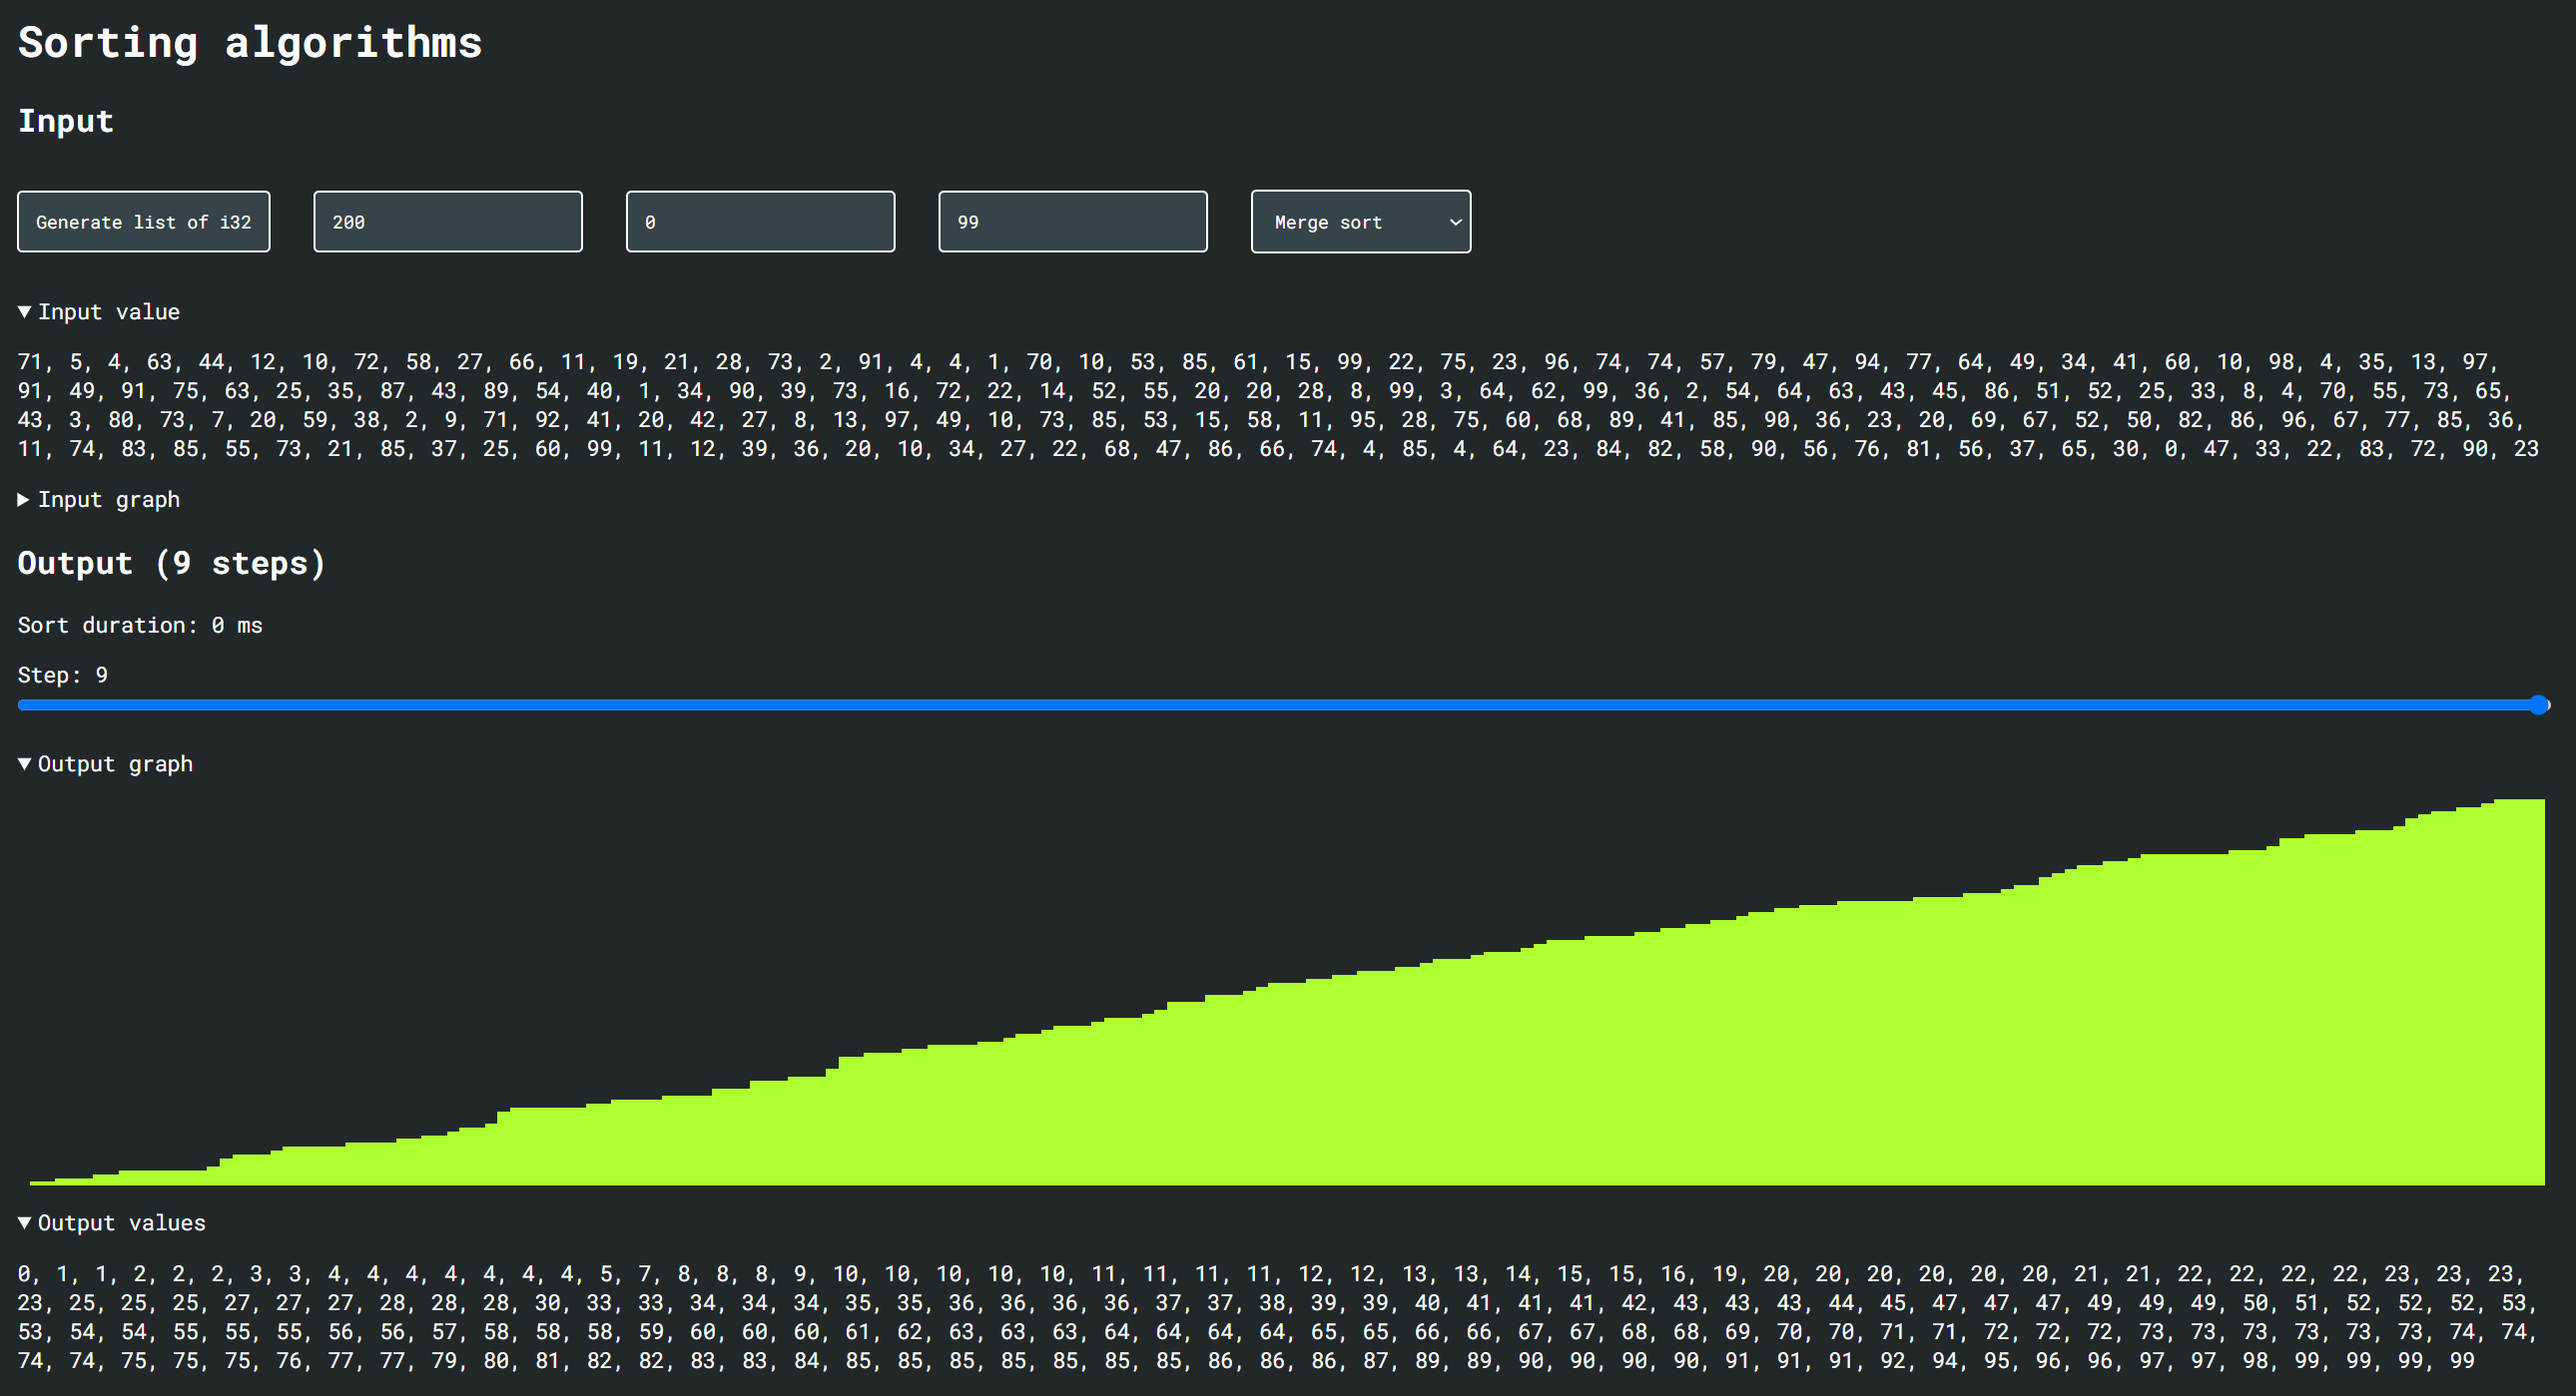
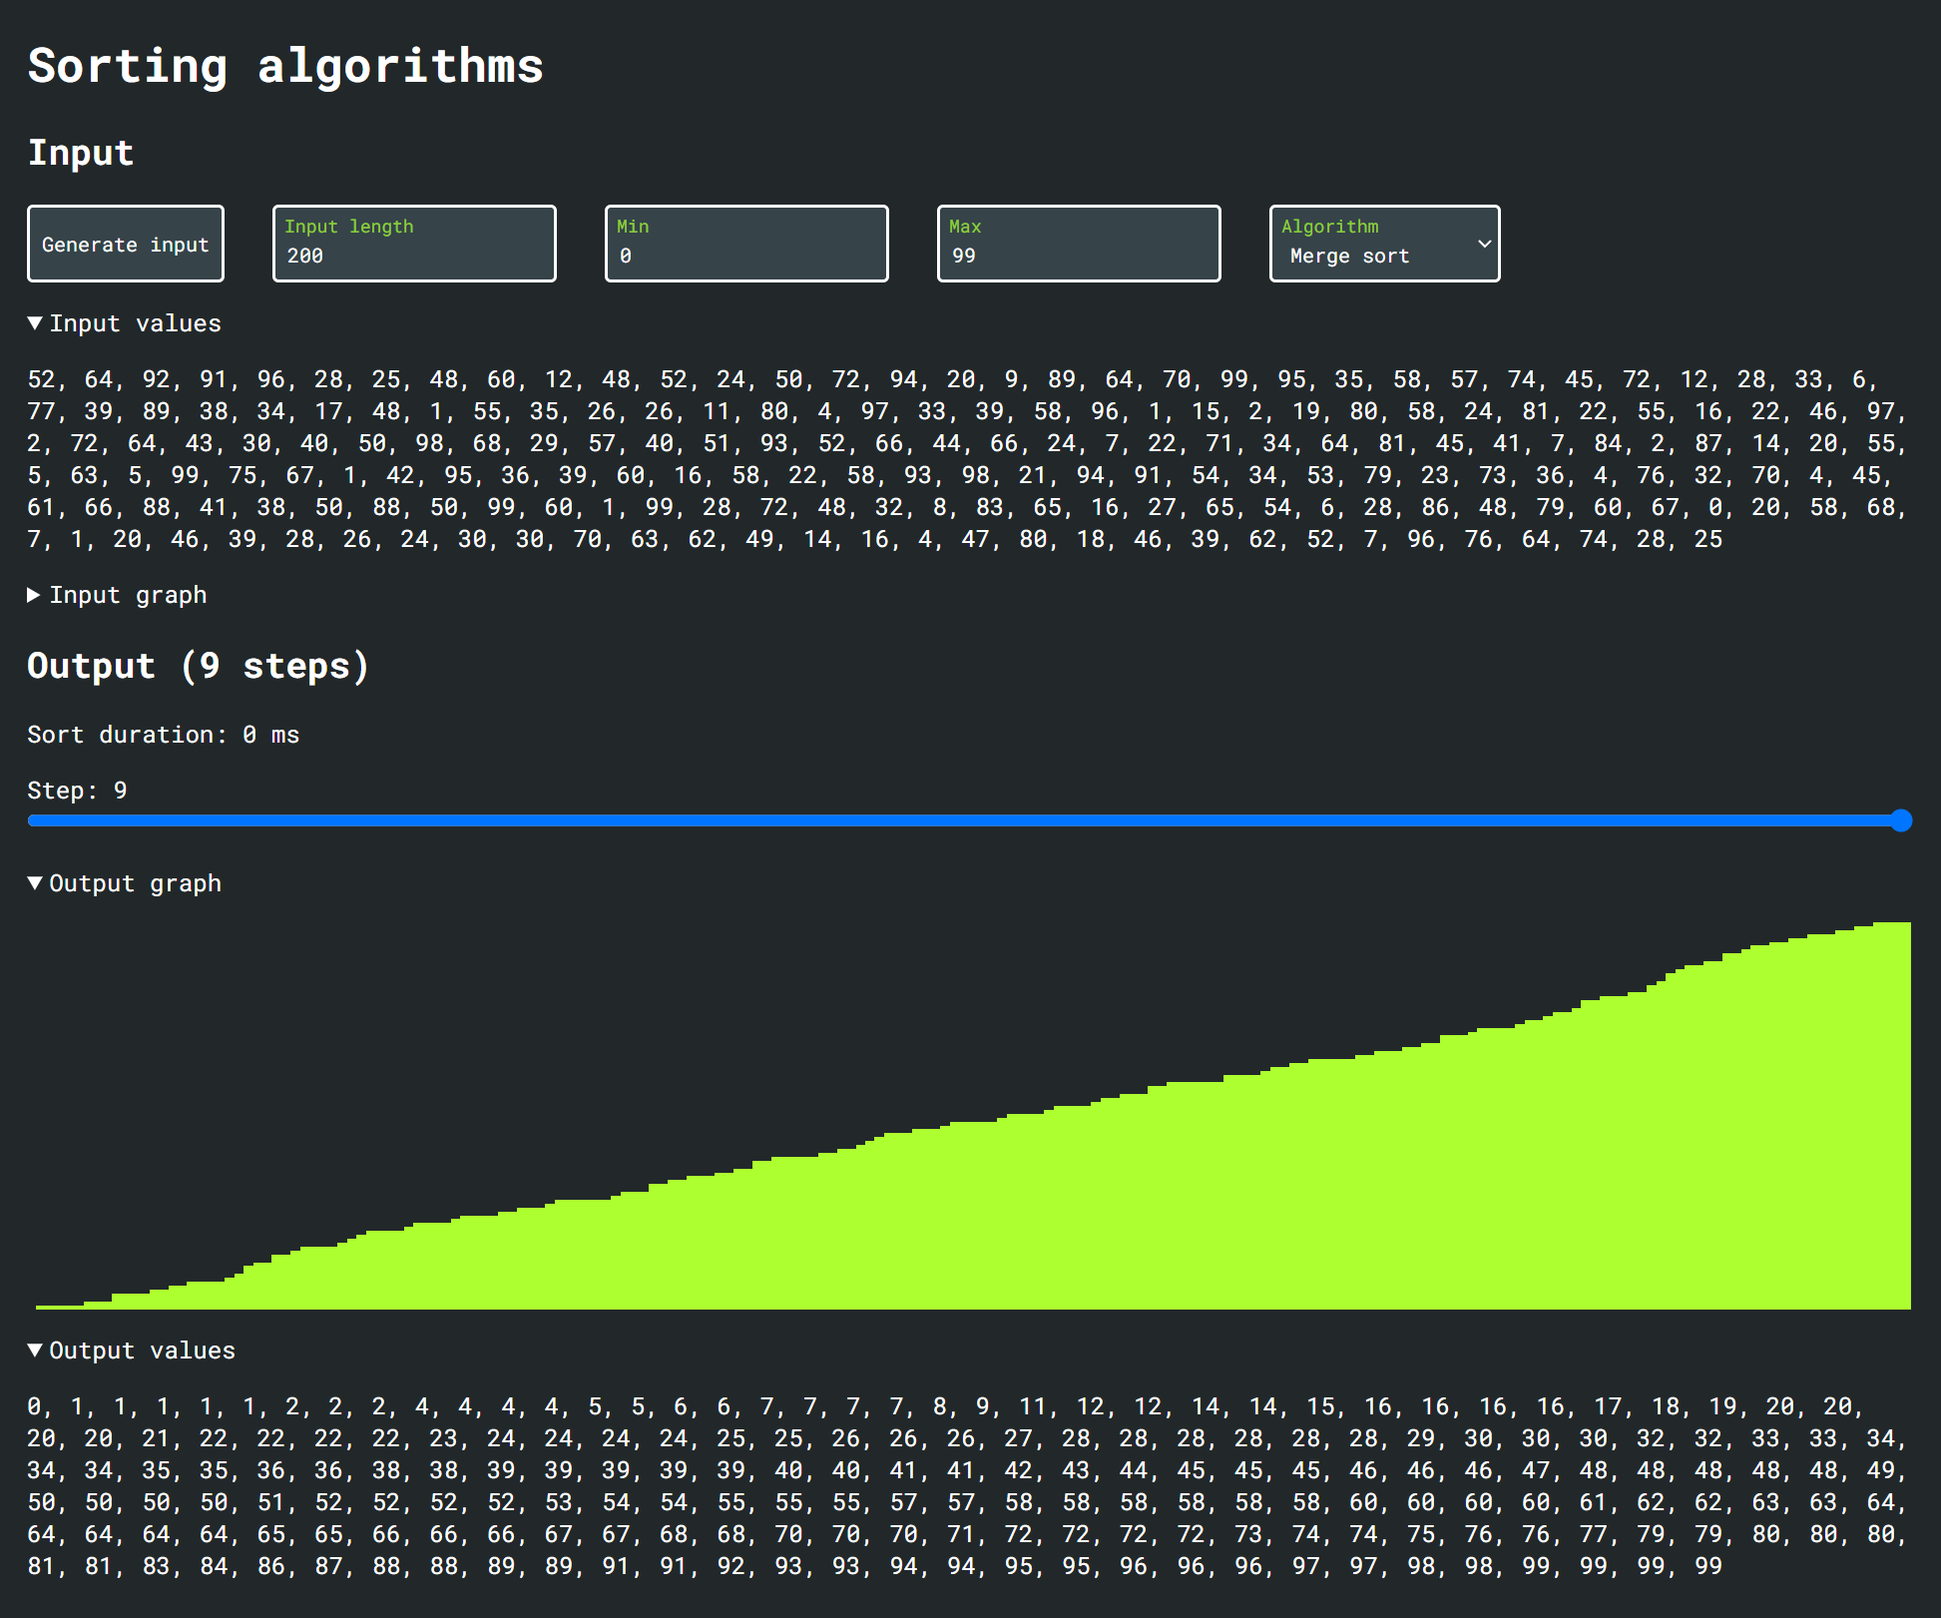
Improve input controls styling
Inputs now have labels so you know what does what.
They also get a green accent color on focus.

diff --git a/global.scss b/global.scss
@@ -1,13 +1,64 @@
 button,
 input,
-select,
-textarea {
-  border: 2px solid white;
-  border-radius: 0.25rem;
+select {
+  border: none;
   outline: none;
-  padding: 0.75rem;
-  margin: 1rem 2rem 1rem 0;
-  background-color: hsl(200, 15%, 25%);
+  margin: 0;
+  padding: 0;
+}
+
+.sort-controls {
+  display: flex;
+
+  button {
+    display: flex;
+    justify-content: center;
+    align-items: center;
+    height: 3.25rem;
+    margin-right: 1rem;
+    padding: 0 0.5rem;
+    border: 2px solid white;
+    border-radius: 0.25rem;
+    outline: none;
+    background-color: hsl(200, 15%, 25%);
+    box-sizing: border-box;
+    transition: 250ms ease;
+
+    &:active {
+      color: #adff2f;
+      border: 2px solid #adff2f;
+    }
+  }
+
+  .sort-control-item {
+    position: relative;
+    margin: 0 1rem;
+
+    label {
+      position: absolute;
+      top: 0.5em;
+      left: 0.5rem;
+      font-size: 0.75em;
+      color: #adff2fbb;
+    }
+
+    input,
+    select {
+      display: block;
+      height: 3.25rem;
+      padding: 1rem 0.5rem 0.1rem 0.5rem;
+      border: 2px solid white;
+      border-radius: 0.25rem;
+      outline: none;
+      background-color: hsl(200, 15%, 25%);
+      box-sizing: border-box;
+      transition: 250ms ease;
+
+      &:focus {
+        border: 2px solid #adff2f;
+      }
+    }
+  }
 }
 
 input[type="range"] {

diff --git a/src/components/sort_controls.rs b/src/components/sort_controls.rs
@@ -94,28 +94,45 @@ pub fn sort_controls(props: &SortControlsProps) -> Html {
     };
 
     html! {
-        <>
-            <button onclick={gen_input}>{"Generate list of i32"}</button>
-            <input type="number"
-                placeholder="Input length"
-                min=1
-                value={props.config.input_len.to_string()}
-                oninput={change_input_len}
-            />
-            <input type="number"
-                placeholder="Minimum value"
-                value={props.config.min_val.to_string()}
-                oninput={change_min_val}
-            />
-            <input type="number"
-                placeholder="Maximum value"
-                value={props.config.max_val.to_string()}
-                oninput={change_max_val}
-            />
-            <select name="Sorting algorithm" onchange={change_algorithm}>
-                { for SORTING_ALGORITHMS.iter().map(|a| view_sorting_algorithm_option(config.sorting_algorithm.name, a.name)) }
-            </select>
-        </>
+        <div class={classes!("sort-controls")}>
+            <button onclick={gen_input}>{"Generate input"}</button>
+            <div class="sort-control-item">
+                <label for="inputLength">{"Input length"}</label>
+                <input id="inputLength"
+                    type="number"
+                    placeholder="Input length"
+                    min=1
+                    value={props.config.input_len.to_string()}
+                    oninput={change_input_len}
+                />
+            </div>
+            <div class="sort-control-item">
+                <label for="inputMin">{"Min"}</label>
+                <input id="inputMin"
+                    type="number"
+                    placeholder="Minimum value"
+                    value={props.config.min_val.to_string()}
+                    oninput={change_min_val}
+                />
+            </div>
+            <div class="sort-control-item">
+                <label for="inputMax">{"Max"}</label>
+                <input id="inputMax"
+                    type="number"
+                    placeholder="Maximum value"
+                    value={props.config.max_val.to_string()}
+                    oninput={change_max_val}
+                />
+            </div>
+            <div class="sort-control-item">
+                <label for="sortingAlgorithm">{"Algorithm"}</label>
+                <select id="sortingAlgorithm" name="Sorting algorithm" onchange={change_algorithm}>
+                    {
+                        SORTING_ALGORITHMS.iter().map(|a| view_sorting_algorithm_option(config.sorting_algorithm.name, a.name)).collect::<Html>()
+                    }
+                </select>
+            </div>
+        </div>
     }
 }
 

diff --git a/src/pages/sorting_algorithms.rs b/src/pages/sorting_algorithms.rs
@@ -127,7 +127,7 @@ impl Component for SortingAlgorithms {
 
                 <SortControls config={self.sort_config.clone()} {update_input} {update_config} />
 
-                <Collapsible open={true} title={"Input value"}>
+                <Collapsible open={true} title={"Input values"}>
                     <pre>{ &self.input.iter().map(|val| val.to_string()).collect::<Vec<String>>().join(", ") }</pre>
                 </Collapsible>
 
@@ -147,7 +147,7 @@ impl Component for SortingAlgorithms {
                     </p>
 
                     <label for="active-step-input">{ format!("Step: {}", self.active_step + 1) }</label>
-                    <input type="range" id="active-step-input" min="0" max={(self.steps.len()-1).to_string()} value={self.active_step.to_string()} oninput={change_active_step} />
+                    <input type="range" id="active-step-input" min="0" max={(self.steps.len() - 1).to_string()} value={self.active_step.to_string()} oninput={change_active_step} />
 
                     <Collapsible open={true} title={"Output graph"}>
                         <SortGraph values={self.steps[self.active_step].clone()} />
